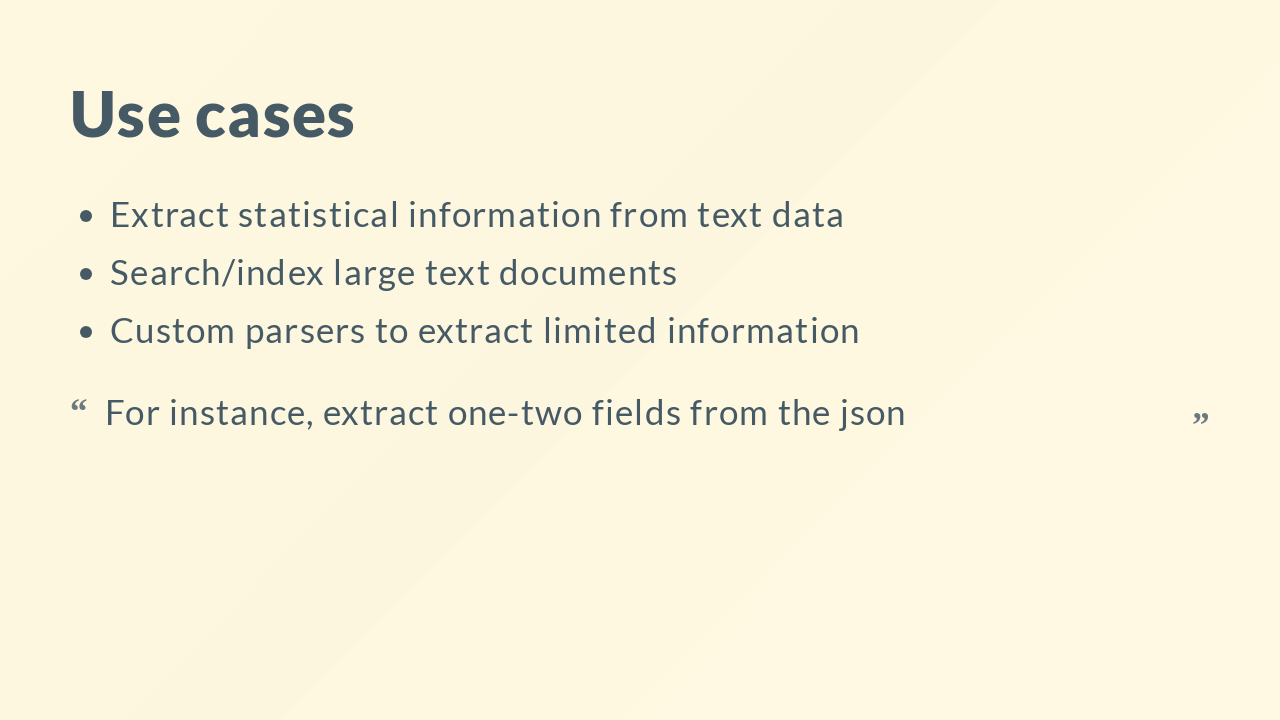
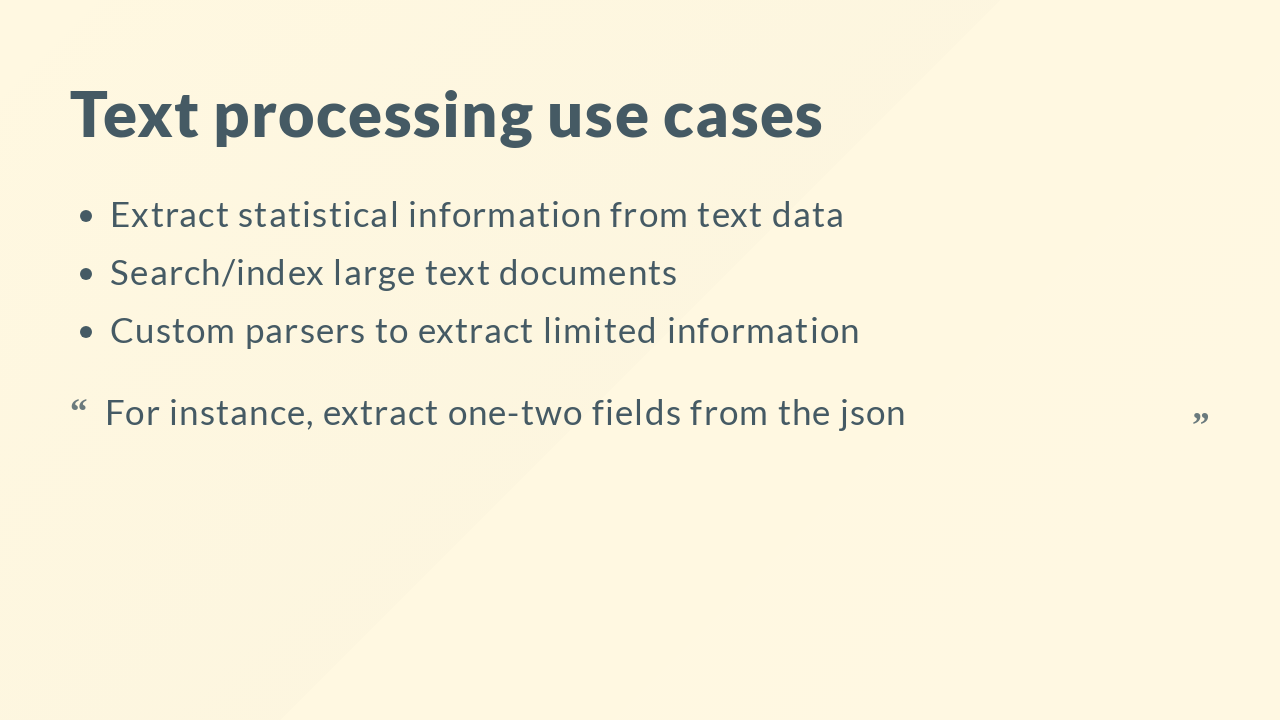
Presentation ready, v1

Changed region(s): [[0.0312, 0.1222, 0.6562, 0.2139]]

diff --git a/src/count_word_avx.rs b/src/count_word_avx.rs
@@ -8,7 +8,7 @@ use std::arch::x86_64::{
 ///
 /// mask: abcd | haystack: .....abcd...... ..
 /// result: ..00000111100000b
-unsafe fn simd_contains_4(query_i32_256: __m256i, buf: *const u8) -> u32 {
+unsafe fn simd_find_4b(query_i32_256: __m256i, buf: *const u8) -> u32 {
     let mut res = 0;
     for i in 0..=3 {
         // Load 32 byte slice of haystack into YMM register
@@ -23,7 +23,7 @@ unsafe fn simd_contains_4(query_i32_256: __m256i, buf: *const u8) -> u32 {
 }
 
 #[inline(never)]
-pub unsafe fn count_word_avx(buf: &[u8], word: &[u8]) -> i64 {
+pub fn count_word_avx(buf: &[u8], word: &[u8]) -> i64 {
     assert!(
         word.len() > 4,
         "Only words of size 4+ supported in this example for simplification"
@@ -32,14 +32,14 @@ pub unsafe fn count_word_avx(buf: &[u8], word: &[u8]) -> i64 {
     // In this case SIMD will execute 8 comparisons as a single operation
     // text:    reve ta stogne dnipr shiroky
     // mask:    reverevereverevereverevereve
-    // result:  1111000000000000000000000000
+    // result:  0000000000000000000000001111
     let first4b: [u8; 4] = word[..4].try_into().unwrap();
-    let query = _mm256_set1_epi32(i32::from_le_bytes(first4b));
+    let query = unsafe { _mm256_set1_epi32(i32::from_le_bytes(first4b)) };
 
     buf.windows(32 + word.len())
         .step_by(32)
         .map(|s| {
-            let mut mask = simd_contains_4(query, s.as_ptr());
+            let mut mask = unsafe { simd_find_4b(query, s.as_ptr()) };
             let mut count = 0;
             let mut pos: usize = 0;
             while mask != 0 {
@@ -53,32 +53,4 @@ pub unsafe fn count_word_avx(buf: &[u8], word: &[u8]) -> i64 {
             count
         })
         .sum::<i64>()
-}
-
-#[cfg(test)]
-mod tests {
-    use super::*;
-
-    #[test]
-    fn findword() {
-        let buf = r#"
-    reve ta stogne dnipr shyroky,
-    serdity viter zavyva,
-    dodolu verby gne vysoki,
-    goramy hvylyu pidiyma.
-
-    dodolu verby gne vysoki,
-    goramy hvylyu pidima.
-
-    I blidy misyats na tu poru
-    iz hmary de de vyglyadav,
-    nenache choven v synim mori,
-    to vyrynav to potopav."#;
-
-        assert_eq!(unsafe { count_word_avx(buf.as_bytes(), b"dodolu") }, 2);
-        assert_eq!(unsafe { count_word_avx(buf.as_bytes(), b"blidy") }, 1);
-        assert_eq!(unsafe { count_word_avx(buf.as_bytes(), b"zavyva") }, 1);
-        assert_eq!(unsafe { count_word_avx(buf.as_bytes(), b"goramy") }, 2);
-        assert_eq!(unsafe { count_word_avx(buf.as_bytes(), b"hvylyu") }, 2);
-    }
 }

diff --git a/examples/count_word.rs b/examples/count_word.rs
@@ -2,7 +2,7 @@ use std::hint::black_box;
 
 use simd_parse::{count_word_avx, count_word_iter};
 
-const TIMES: usize = 1;
+const TIMES: usize = 10;
 
 fn main() {
     let buf = std::fs::read(
@@ -15,14 +15,13 @@ fn main() {
         .nth(2)
         .expect("Expected word as second argument");
 
-    /*
     // Warmup
     println!(
         "Iter warmup completed {}",
-        (0..100)
+        (0..10)
             .map(|_| black_box(count_word_iter(&buf, word.as_bytes())))
             .sum::<i64>()
-    );*/
+    );
 
     // Regular iterator
     let ts = std::time::Instant::now();
@@ -31,14 +30,14 @@ fn main() {
         .sum::<i64>()
         / TIMES as i64;
     let time = ts.elapsed().as_micros() as i64 / TIMES as i64;
-    println!("Iter found '{word}' {words} times in {time}us");
+    println!("Iter found '{word}' {words} times in \x1b[36;1m{time}us\x1b[30;0m:");
 
     // SIMD AVX
     let ts = std::time::Instant::now();
     let words = (0..TIMES)
-        .map(|_| unsafe { black_box(count_word_avx(&buf, word.as_bytes())) })
+        .map(|_| black_box(count_word_avx(&buf, word.as_bytes())))
         .sum::<i64>()
         / TIMES as i64;
     let time = ts.elapsed().as_micros() as i64 / TIMES as i64;
-    println!("Iter found '{word}' {words} times in {time}us");
+    println!("AVX found '{word}' {words} times in \x1b[36;1m{time}us\x1b[30;0m:");
 }

diff --git a/examples/count_words.rs b/examples/count_words.rs
@@ -27,7 +27,7 @@ fn main() {
         .sum::<i64>()
         / TIMES as i64;
     let time = ts.elapsed().as_micros() as i64 / TIMES as i64;
-    println!("Iter found {spaces} spaces in {time}us");
+    println!("Iter found {spaces} spaces in \x1b[36;1m{time}us\x1b[30;0m:");
 
     // SIMD AVX
     let ts = std::time::Instant::now();
@@ -36,5 +36,5 @@ fn main() {
         .sum::<i64>()
         / TIMES as i64;
     let time = ts.elapsed().as_micros() as i64 / TIMES as i64;
-    println!("AVX found {spaces} spaces in {time}us");
+    println!("AVX found {spaces} spaces in \x1b[36;1m{time}us\x1b[30;0m:");
 }

diff --git a/examples/count_word_simple.rs b/examples/count_word_simple.rs
@@ -2,7 +2,7 @@ use std::hint::black_box;
 
 use simd_parse::count_word_iter;
 
-const TIMES: usize = 100;
+const TIMES: usize = 10;
 
 fn main() {
     let buf = std::fs::read(
@@ -30,5 +30,5 @@ fn main() {
         .sum::<i64>()
         / TIMES as i64;
     let time = ts.elapsed().as_micros() as i64 / TIMES as i64;
-    println!("Iter found '{word}' {words} times in {time}us");
+    println!("Iter found '{word}' {words} times in \x1b[36;1m{time}us\x1b[30;0m:");
 }

diff --git a/examples/count_words_simple.rs b/examples/count_words_simple.rs
@@ -27,5 +27,5 @@ fn main() {
         .sum::<i64>()
         / TIMES as i64;
     let time = ts.elapsed().as_micros() as i64 / TIMES as i64;
-    println!("Iter found {spaces} spaces in {time}us");
+    println!("Iter found {spaces} spaces in \x1b[36;1m{time}us\x1b[30;0m:");
 }

diff --git a/src/main.rs b/src/main.rs
@@ -1,4 +1,5 @@
 pub mod count_spaces_iter;
+mod count_word_avx;
 
 use simd_parse::{btoi32, prepare_needle_4_256, simd_contains_4};
 

diff --git a/slides/usecases.md b/slides/usecases.md
@@ -1,4 +1,4 @@
-# Use cases
+# Text processing use cases
 
 - Extract statistical information from text data
 - Search/index large text documents
@@ -8,9 +8,32 @@
 
 ---
 
-# Provided examples
+# For example
 
 - Count number of words
 - Count number of times word is present in the text
-- Compare extraction of few fields from json with 
-  serde, serde-simd and custom SIMD parser
+- Extract few fields values from json
+
+---
+
+### Count number of words in the text
+
+Assume that the number of words is close to the number of spaces.
+We will be only counting `' '` and `'\n'` characters.
+
+For simplicity we assume that custom utf-8 characters are not used.
+
+For huge texts small error in count is allowable.
+
+---
+
+### Count number of times word is found in the text
+
+We will find matching substring with exact match to input query.
+
+---
+
+### Extract 2 fields from small json (107b) message from Binance exchange 
+(no implementation provided)
+
+![](img/parsers_cmp.png)

diff --git a/slides/disclaimer.md b/slides/disclaimer.md
@@ -1,0 +1,17 @@
+# Disclaimer
+
+### This approach can only be used in exceptional cases
+
+- Explicit usage of SIMD provides much less readable code
+- Code is using unsafe and requires extra care
+- LLVM with cpu-target native provides decent vectorization
+
+### But
+
+- It might improve performance / reduce costs 2-20 times
+
+---
+
+# Thank you
+
+# Q & A
